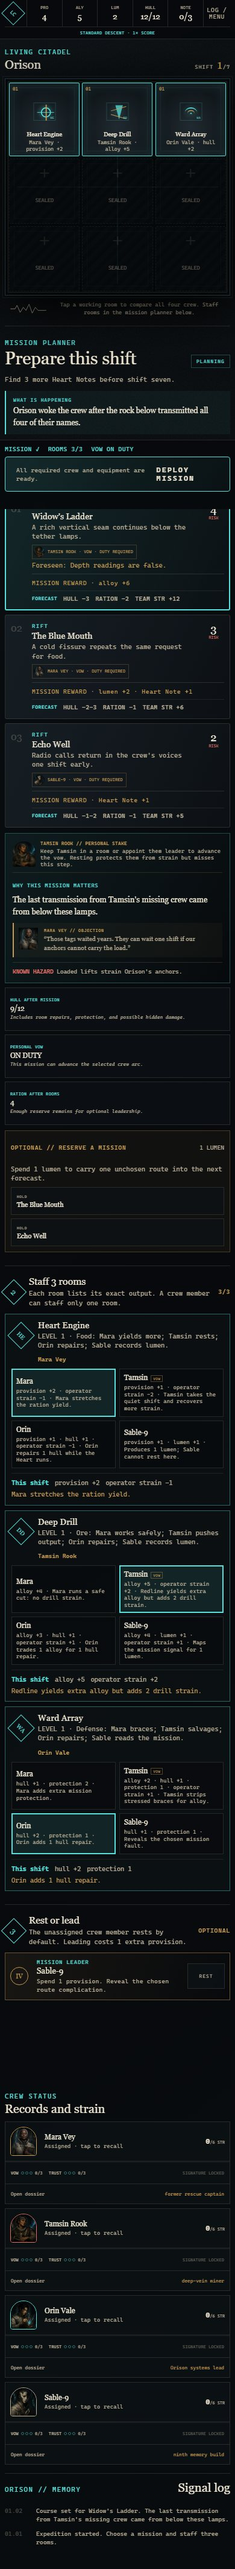
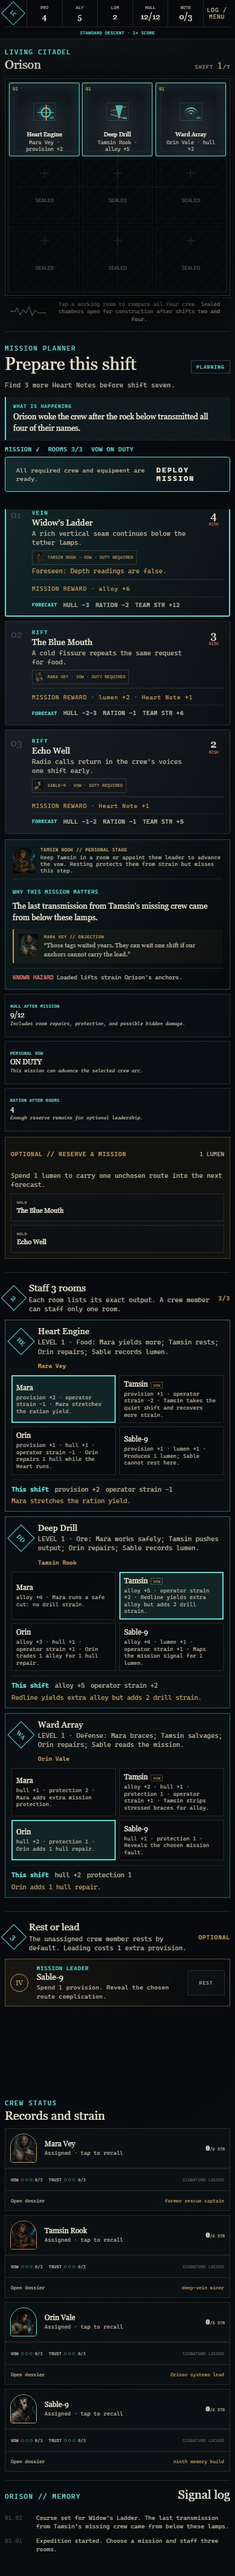
fix: make construction timing unmistakable

diff --git a/apps/game/app/game-app.tsx b/apps/game/app/game-app.tsx
@@ -333,7 +333,7 @@ function Citadel({ view, selectedCrew, selectedBuildSlot, onRoom, onEmpty }: {
           ? 'Choose a room for the selected crew member.'
           : view.state.phase === 'development'
             ? 'Choose a sealed chamber for new construction, or tap a working room to inspect or upgrade it.'
-            : 'Tap a working room to compare all four crew. Staff rooms in the mission planner below.'}</span>
+            : 'Tap a working room to compare all four crew. Sealed chambers open for construction after shifts two and four.'}</span>
       </div>
     </section>
   );

diff --git a/apps/game/tests/game.spec.ts b/apps/game/tests/game.spec.ts
@@ -63,6 +63,7 @@ async function resumeRun(page: Page) {
   await page.getByRole('button', { name: /RESUME EXPEDITION/ }).click();
   await expect(page.getByTestId('citadel-grid')).toBeVisible();
   await expect(page.locator('.citadel-caption')).toContainText('compare all four crew');
+  await expect(page.locator('.citadel-caption')).toContainText('construction after shifts two and four');
 }
 
 async function returnToTitle(page: Page) {
